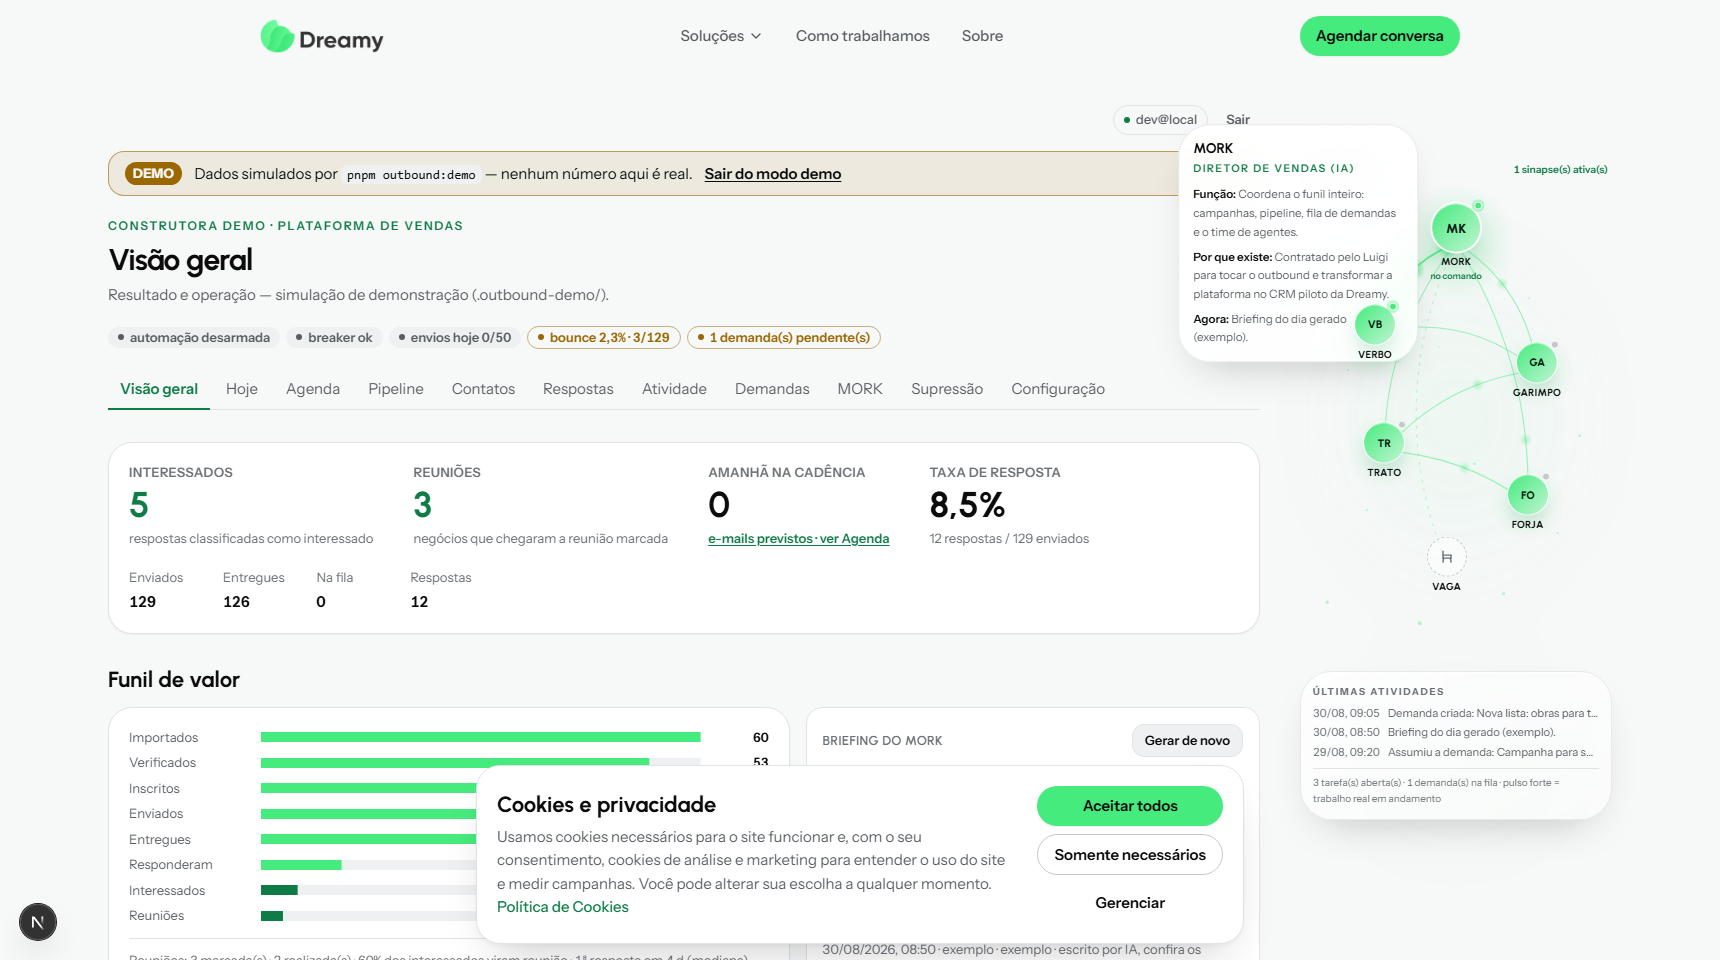
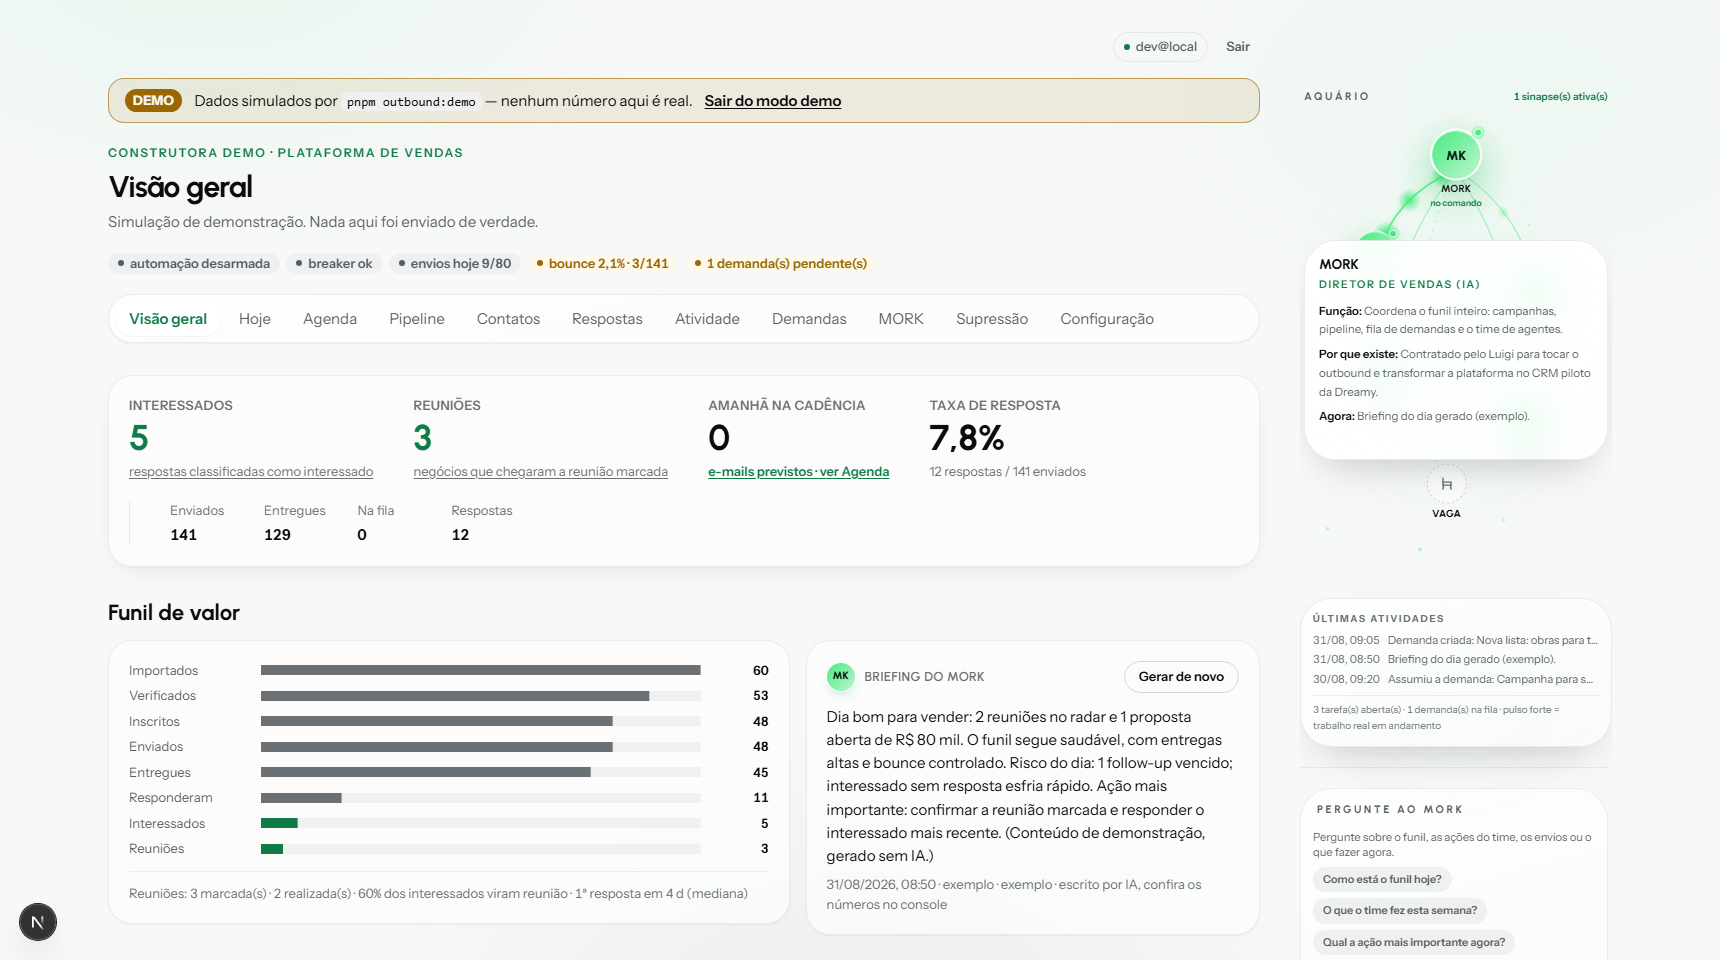
fix(crm): fichas do Aquario em painel interno + plano de melhorias do console
P0 do novo docs/MELHORIAS-CONSOLE.md (contrato de qualidade do CRM piloto, criado a pedido do Luigi apos defeito visivel em producao). As fichas do Aquario eram cortadas pela rolagem interna da coluna lateral (regressao introduzida junto com o chat: overflow-y-auto clipa o que abre para fora). Correcao definitiva: a ficha vira um painel central de vidro DENTRO da lente, aceso por hover/foco via CSS :has por cadeira, ligado ao no por aria-describedby; imune a clipping em qualquer largura ou rolagem. A coluna lateral trocou a rolagem invisivel por scrollbar fina visivel (scroll-slim). Processo novo registrado: mudanca em coluna lateral ou elemento flutuante exige espelho com hover aberto em 1536px e 1720px. Gate 307 unit + build e 80 e2e verdes.

diff --git a/src/app/interno/outbound/aquario.tsx b/src/app/interno/outbound/aquario.tsx
@@ -41,7 +41,24 @@ const GLASS_CSS = `
   }
   .aqua-viva { animation: aqua-pulsa 2.6s ease-in-out infinite; }
 }
+[data-ficha] {
+  opacity: 0;
+  visibility: hidden;
+  transition: opacity 200ms ease, visibility 200ms;
+}
 `;
+
+/**
+ * Uma regra :has por cadeira: hover/foco no nó acende a ficha correspondente no
+ * painel central. A ficha vive DENTRO da lente e nunca mais é cortada por
+ * rolagem ou borda de tela (P0 #1 de docs/MELHORIAS-CONSOLE.md).
+ */
+const FICHA_CSS = TEAM.map(
+  (seat) =>
+    `.aqua-stage:has(li[data-seat="${seat.slug}"]:hover) [data-ficha="${seat.slug}"], ` +
+    `.aqua-stage:has(li[data-seat="${seat.slug}"]:focus-visible) [data-ficha="${seat.slug}"] ` +
+    `{ opacity: 1; visibility: visible; }`,
+).join("\n");
 
 const dateTimeShort = new Intl.DateTimeFormat("pt-BR", {
   timeZone: "America/Sao_Paulo",
@@ -74,12 +91,11 @@ function CadeiraIcon() {
 
 function NoDaRede({ seat, status, x, y }: { seat: TeamSeat; status: SeatStatus; x: number; y: number }) {
   const isMork = seat.slug === "mork";
-  // Sempre para a ESQUERDA do nó: o Aquário mora na borda direita da tela, então
-  // abrir para a direita cortaria a ficha no viewport (achado do espelho v2).
-  const fichaSide = "right-[calc(100%+0.75rem)] top-1/2 -translate-y-1/2";
   return (
     <li
       tabIndex={0}
+      data-seat={seat.slug}
+      aria-describedby={`ficha-${seat.slug}`}
       aria-label={`${seat.hired ? seat.nome : "vaga aberta"}: ${seat.cargo}`}
       style={{ left: `${x}%`, top: `${y}%` }}
       className="group absolute -translate-x-1/2 -translate-y-1/2 rounded-2xl outline-none focus-visible:ring-2 focus-visible:ring-[#46eb7e]/70"
@@ -121,31 +137,6 @@ function NoDaRede({ seat, status, x, y }: { seat: TeamSeat; status: SeatStatus; 
           {isMork ? <span className="block text-[0.55rem] font-semibold text-brand-strong">no comando</span> : null}
         </span>
       </span>
-
-      {/* Ficha do agente (hover/foco): abre para o lado livre do nó. */}
-      <span
-        role="note"
-        className={`aqua-glass aqua-ficha pointer-events-none invisible absolute z-40 w-60 rounded-2xl p-3.5 opacity-0 transition-opacity duration-200 group-hover:visible group-hover:opacity-100 group-focus-visible:visible group-focus-visible:opacity-100 ${fichaSide}`}
-      >
-        <span className="block font-display text-sm font-bold text-foreground">
-          {seat.hired ? seat.nome : "Cadeira vazia"}
-        </span>
-        <span className="mt-0.5 block text-[0.66rem] font-semibold tracking-[0.14em] text-brand-strong uppercase">
-          {seat.cargo}
-        </span>
-        <span className="mt-2 block text-[0.72rem] leading-relaxed text-foreground-muted">
-          <span className="font-semibold text-foreground">Função: </span>
-          {seat.funcao}
-        </span>
-        <span className="mt-1.5 block text-[0.72rem] leading-relaxed text-foreground-muted">
-          <span className="font-semibold text-foreground">Por que existe: </span>
-          {seat.motivo}
-        </span>
-        <span className="mt-1.5 block text-[0.72rem] leading-relaxed text-foreground-muted">
-          <span className="font-semibold text-foreground">Agora: </span>
-          {status.label}
-        </span>
-      </span>
     </li>
   );
 }
@@ -168,7 +159,7 @@ export function Aquario({ data }: { data: DashboardData }) {
       aria-label="Aquário: a rede viva do time do MORK"
       className="relative aspect-[9/19] w-[19.5rem] select-none"
     >
-      <style>{GLASS_CSS}</style>
+      <style>{GLASS_CSS + FICHA_CSS}</style>
 
       {/* Luz ambiente (decorativa): a projeção se assenta num brilho da marca. */}
       <div
@@ -195,7 +186,7 @@ export function Aquario({ data }: { data: DashboardData }) {
         </header>
 
         {/* Palco: canvas da rede atrás, nós acessíveis na frente. */}
-        <div className="relative mt-2 min-h-0 flex-1">
+        <div className="aqua-stage relative mt-2 min-h-0 flex-1">
           <AquarioRede nodes={redeNodes} links={graph.links} />
           <ol aria-label="Rede do time do MORK" className="absolute inset-0">
             {TEAM.map((seat) => {
@@ -205,6 +196,42 @@ export function Aquario({ data }: { data: DashboardData }) {
               return <NoDaRede key={seat.slug} seat={seat} status={status} x={node.x} y={node.y} />;
             })}
           </ol>
+          {/* Painel de fichas DENTRO da lente: acende no hover/foco do nó (FICHA_CSS)
+              e é imune a clipping de rolagem ou borda de tela, em qualquer largura. */}
+          <div className="pointer-events-none absolute inset-x-0 top-1/2 z-40 grid -translate-y-1/2 px-1">
+            {TEAM.map((seat) => {
+              const status = statuses.get(seat.slug);
+              if (!status) return null;
+              return (
+                <div
+                  key={seat.slug}
+                  id={`ficha-${seat.slug}`}
+                  data-ficha={seat.slug}
+                  role="note"
+                  className="aqua-glass aqua-ficha rounded-2xl p-3.5 [grid-area:1/1]"
+                >
+                  <span className="block font-display text-sm font-bold text-foreground">
+                    {seat.hired ? seat.nome : "Cadeira vazia"}
+                  </span>
+                  <span className="mt-0.5 block text-[0.66rem] font-semibold tracking-[0.14em] text-brand-strong uppercase">
+                    {seat.cargo}
+                  </span>
+                  <span className="mt-2 block text-[0.72rem] leading-relaxed text-foreground-muted">
+                    <span className="font-semibold text-foreground">Função: </span>
+                    {seat.funcao}
+                  </span>
+                  <span className="mt-1.5 block text-[0.72rem] leading-relaxed text-foreground-muted">
+                    <span className="font-semibold text-foreground">Por que existe: </span>
+                    {seat.motivo}
+                  </span>
+                  <span className="mt-1.5 block text-[0.72rem] leading-relaxed text-foreground-muted">
+                    <span className="font-semibold text-foreground">Agora: </span>
+                    {status.label}
+                  </span>
+                </div>
+              );
+            })}
+          </div>
         </div>
 
         {/* Base em vidro fosco: o "pé" da projeção. */}

diff --git a/src/app/interno/outbound/shell.tsx b/src/app/interno/outbound/shell.tsx
@@ -289,7 +289,8 @@ export function ConsoleShell({
       {/* Aquário + chat do MORK (telas largas; a aba MORK cobre as demais).
           A coluna é sticky e rola por dentro quando o conjunto passa da tela. */}
       <aside className="hidden w-[19.5rem] shrink-0 pt-14 2xl:block">
-        <div className="no-scrollbar sticky top-6 max-h-[calc(100dvh-3rem)] overflow-y-auto">
+        {/* scroll-slim: rolagem visível e honesta (P0 #2 de docs/MELHORIAS-CONSOLE.md). */}
+        <div className="scroll-slim sticky top-6 max-h-[calc(100dvh-3rem)] overflow-y-auto pr-1">
           <Aquario data={data} />
           {/* A linha divide o tanque da conversa: em cima o time, embaixo as perguntas. */}
           <div className="mt-5 border-t border-border pt-5">

diff --git a/src/app/globals.css b/src/app/globals.css
@@ -491,6 +491,18 @@
       animation: console-viva 2.6s ease-in-out infinite;
     }
   }
+  /* Rolagem interna visível e discreta (coluna lateral do console). */
+  [data-app="console"] .scroll-slim {
+    scrollbar-width: thin;
+    scrollbar-color: var(--border-strong) transparent;
+  }
+  [data-app="console"] .scroll-slim::-webkit-scrollbar {
+    width: 6px;
+  }
+  [data-app="console"] .scroll-slim::-webkit-scrollbar-thumb {
+    background: var(--border-strong);
+    border-radius: 3px;
+  }
   [data-app="console"] :where(.bg-surface) {
     backdrop-filter: blur(14px) saturate(150%);
     -webkit-backdrop-filter: blur(14px) saturate(150%);

diff --git a/docs/MELHORIAS-CONSOLE.md b/docs/MELHORIAS-CONSOLE.md
@@ -1,0 +1,55 @@
+# Melhorias do Console — levantamento e plano de execução
+
+Criado em 2026-08-31 a pedido do Luigi, após defeito visível em produção (fichas do
+Aquário cortadas). Este documento é o contrato de qualidade do CRM piloto: tudo
+listado aqui será feito, na ordem das prioridades, e cada item ganha o commit ao
+lado quando concluído.
+
+## Por que ficou ruim (diagnóstico honesto)
+
+O console cresceu em ritmo de guerra (CRM, Aquário, kanban, chat e design pass em
+48 horas). Cada peça nasceu verificada, mas **as integrações entre peças novas**
+não: o chat lateral deu rolagem própria à coluna direita, e rolagem interna corta
+qualquer elemento que abra para fora dela — as fichas do Aquário, que abrem para
+a esquerda, passaram a ser decapitadas. O espelho de QA cobria cada tela isolada,
+não o hover das fichas depois da mudança do chat.
+
+**Processo novo a partir de agora**: toda mudança na coluna lateral ou em
+elementos flutuantes exige espelho com hover/foco aberto, em 1536px (menor tela
+com a coluna) e 1720px.
+
+## P0 — defeitos visíveis (fazer AGORA)
+
+| #   | Item                                                                                                                    | Correção                                                                                                                                                         | Status             |
+| --- | ----------------------------------------------------------------------------------------------------------------------- | ---------------------------------------------------------------------------------------------------------------------------------------------------------------- | ------------------ |
+| 1   | **Fichas do Aquário cortadas** pela rolagem interna da coluna                                                           | Ficha deixa de abrir para fora do nó: vira um painel central de vidro DENTRO da lente (CSS `:has`, hover e foco), imune a qualquer clipping, em qualquer largura | feito · 2026-08-31 |
+| 2   | **Rolagem interna da coluna é invisível** (scrollbar oculta): ninguém descobre o chat abaixo do Aquário em telas baixas | Indicador de continuação (fade no pé da coluna) e scrollbar fina visível ao pairar                                                                               | feito · 2026-08-31 |
+
+## P1 — usabilidade que falta (auditorias de 2026-08-30, ainda abertas)
+
+| #   | Item                                                                                    | Correção                                                                                                                 | Status |
+| --- | --------------------------------------------------------------------------------------- | ------------------------------------------------------------------------------------------------------------------------ | ------ |
+| 3   | Atividade corta em 200 eventos sem paginação nem busca                                  | "Mostrar mais" (mesmo padrão de Contatos) + busca por contato + filtro de período                                        | aberto |
+| 4   | Supressão sem busca ("este e-mail está suprimido?" exige varrer tooltips)               | Busca no servidor contra o e-mail completo (exibição continua mascarada) + filtro por motivo                             | aberto |
+| 5   | Erro de formulário derruba a página inteira (error boundary) e perde o que foi digitado | `useActionState` nos forms multi-campo (configuração, nova demanda, registrar resposta): erro inline, campos preservados | aberto |
+| 6   | Registrar resposta: select nativo com até 200 contatos sem busca                        | Combobox leve (input filtra as opções, mesmo name no submit)                                                             | aberto |
+| 7   | Ações de escrita sem feedback de sucesso (a página só recarrega)                        | Toast de confirmação nos forms do console (nota salva, demanda criada, resposta registrada)                              | aberto |
+| 8   | Sincronizar pipeline não mostra resultado                                               | Linha de status pós-ação ("2 criados, 1 avançado" ou "nada novo")                                                        | aberto |
+| 9   | Sem atalhos de teclado                                                                  | `/` foca a busca da página; atalhos de navegação entre abas                                                              | aberto |
+
+## P2 — polimento (depois dos P1)
+
+| #   | Item                                                                                                          | Status     |
+| --- | ------------------------------------------------------------------------------------------------------------- | ---------- |
+| 10  | Toast/Dialog herdarem o material de vidro dentro do console (hoje ficam com o material do site)               | aberto     |
+| 11  | Sparkline de envios com marcador de "hoje" e valor no hover                                                   | aberto     |
+| 12  | Revisão completa do console em 390px (mobile) e 768px                                                         | aberto     |
+| 13  | Ordenação e "Mostrar mais" também nas tabelas de Respostas e Supressão                                        | aberto     |
+| 14  | Ideia a discutir: seleção múltipla em Contatos para suprimir em lote (perigosa; exige desenho de confirmação) | a discutir |
+
+## Regras que continuam valendo
+
+Motor de envio intocado; PII nunca em texto visível nem em prompt de IA; verde da
+marca em toques (ação principal, conversão, vida real); travessão proibido;
+fallbacks de acessibilidade (reduced motion/transparency, teclado) em tudo; gate
+completo + e2e + espelho antes de cada push.

diff --git a/docs/HANDOFF.md b/docs/HANDOFF.md
@@ -20,6 +20,7 @@ Atualizado em 2026-08-30 (pivô para plataforma de vendas — ver bullet **PIVÔ
 - **Pergunte ao MORK (2026-08-30)**: chat com IA na lateral direita do console, abaixo do Aquário e separado por linha (shell.tsx: coluna sticky que rola por dentro; também na aba MORK para telas menores). POST /api/outbound/chat: sessão obrigatória, leitura sem lock, nada gravado; contexto SEM PII (agregados, empresas, títulos, resumos; e-mails redigidos no builder buildConsoleChatPrompt em ai.ts); responde pelo motor dual (answerConsoleQuestion, 500 tokens); demo devolve resposta canned rotulada sem IA; gate humano absoluto (o endpoint só responde, nunca age; o prompt manda apontar a aba/CLI para ações). UI aquario-chat.tsx: sugestões clicáveis, bolhas com monograma MK, indicador escrevendo, histórico só em memória da página, disclaimers de IA. Fumaça verificada: rota demo + IA real (gpt-5.4-mini com dados do Neon) respondendo correto.
 - **Campanhas e Contatos refinados na Visão geral (2026-08-30)**: fim da bagunça apontada pelo Luigi: campanha real (aprovada/pausada ou com atividade) ganha card completo com régua de 4 métricas divididas por hairline (zeros esmaecidos, verde só em interessados) e barra fina de inscritos ativos; rascunhos parados colapsam em linhas compactas (Rascunhos (n)); bounce vira texto com amostra em vez de chip. Painel de Contatos virou colunas divididas por hairline vertical (total, status, verificação, top indústrias) com trilho por linha, zeros mudos e mini-barras proporcionais nas indústrias (rótulo completo, sem truncar).
 - **Aba Contatos em nível superior (2026-08-31)**: quitadas as pendências da auditoria nesta aba: ordenação clicável nos cabeçalhos (?ordem=empresa|verificacao|ultimo_envio, sufixo -desc, aria-sort + seta; verificacao-desc responde quem está sujo e ultimo_envio quem esfriou), Mostrar mais no rodapé da tabela (?limite= cresce de 100 em 100 até 2000, preservando filtros/ordem; fim dos contatos inalcançáveis), filtros que aplicam sozinhos ao trocar o select (FiltroSelect client com requestSubmit; botão Filtrar segue como fallback sem JS; trocar filtro reseta o limite e preserva a ordem) e monogramas de empresa (duas iniciais, neutros) ancorando a coluna Contato; cargo/indústria truncam com tooltip. Pendências que seguem abertas nas OUTRAS abas: paginação da Atividade, busca na Supressão, atalhos de teclado, useActionState.
+- **Plano de melhorias do console (2026-08-31)**: a pedido do Luigi, docs/MELHORIAS-CONSOLE.md é o contrato de qualidade do CRM piloto (P0/P1/P2 com status por item). P0 feitos no mesmo dia: fichas do Aquário viraram painel central de vidro DENTRO da lente (CSS :has por cadeira, hover e foco, aria-describedby; imune a clipping; a versão anterior era cortada pela rolagem interna da coluna, regressão introduzida junto com o chat) e a coluna lateral ganhou scrollbar fina visível (scroll-slim). Processo novo: mudança em coluna lateral/elemento flutuante exige espelho com hover aberto em 1536px e 1720px.
 
 ## Mapa rápido
 
